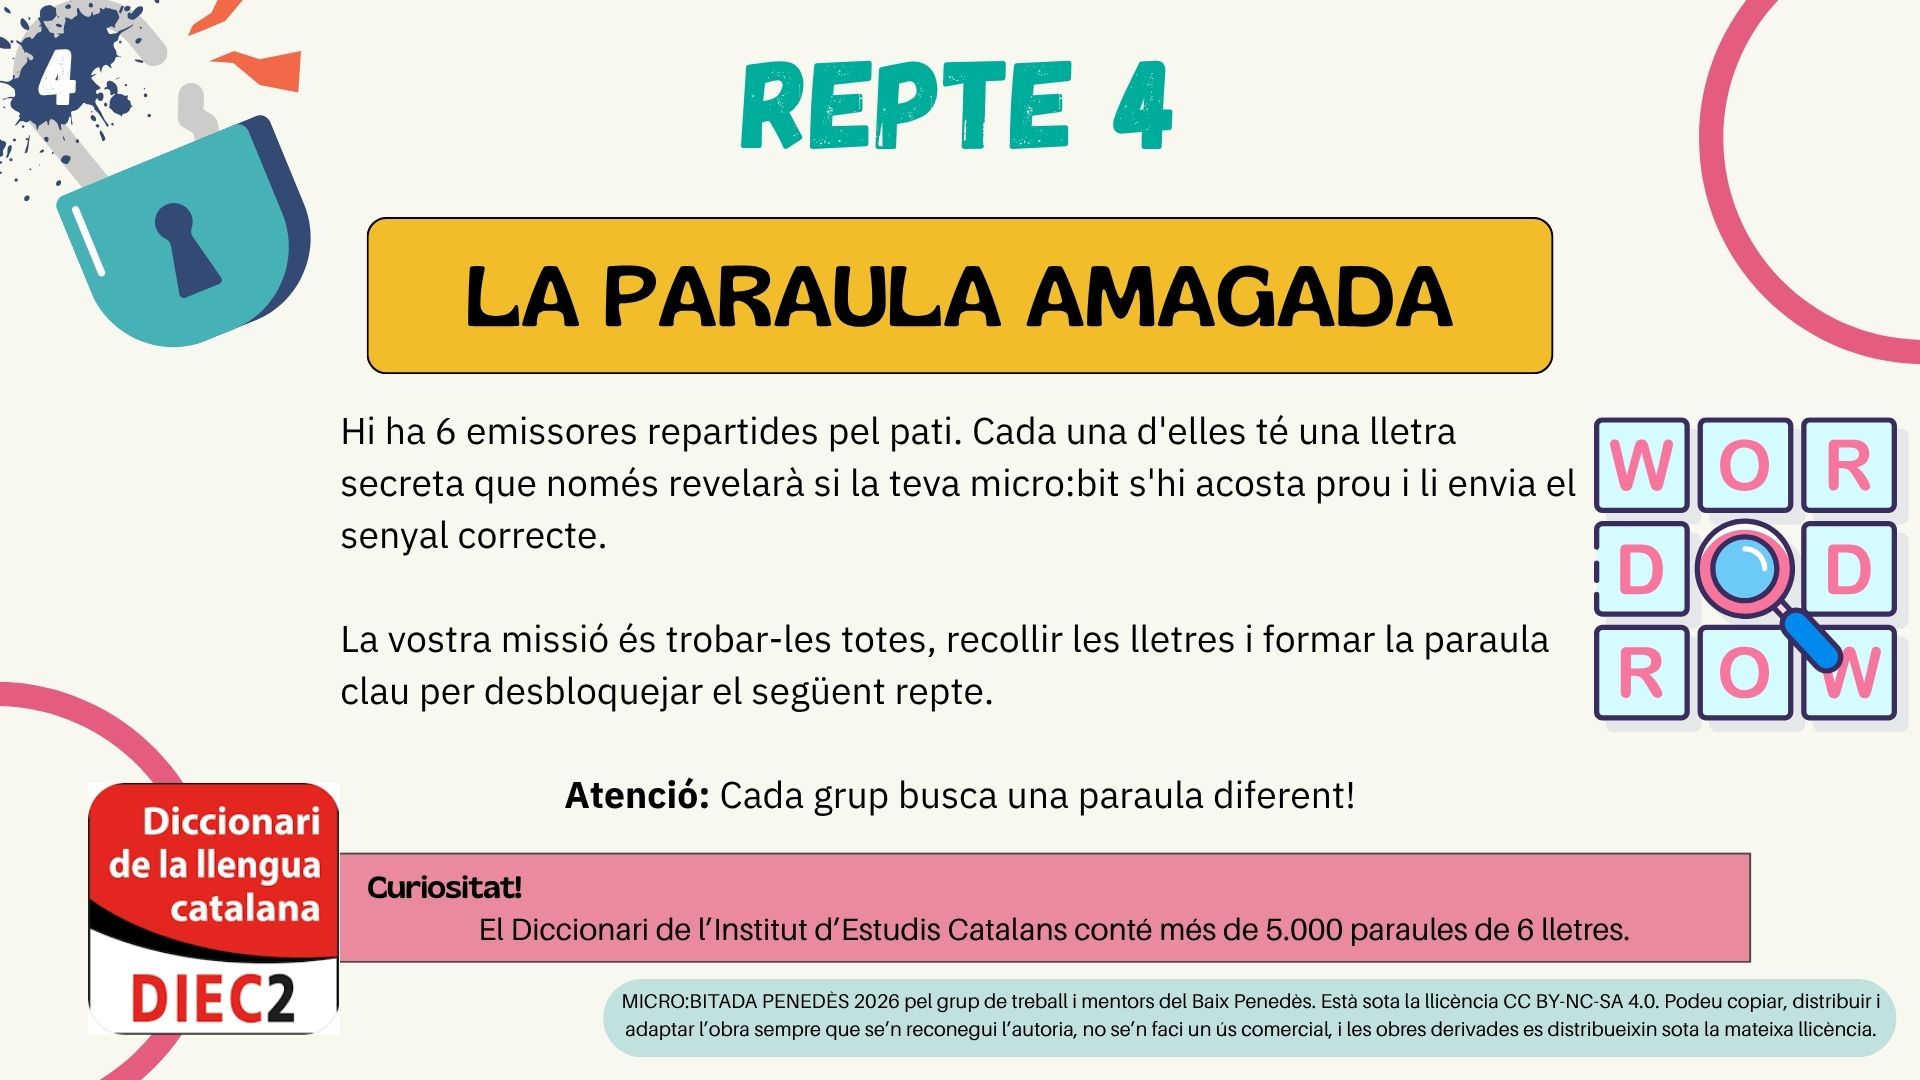
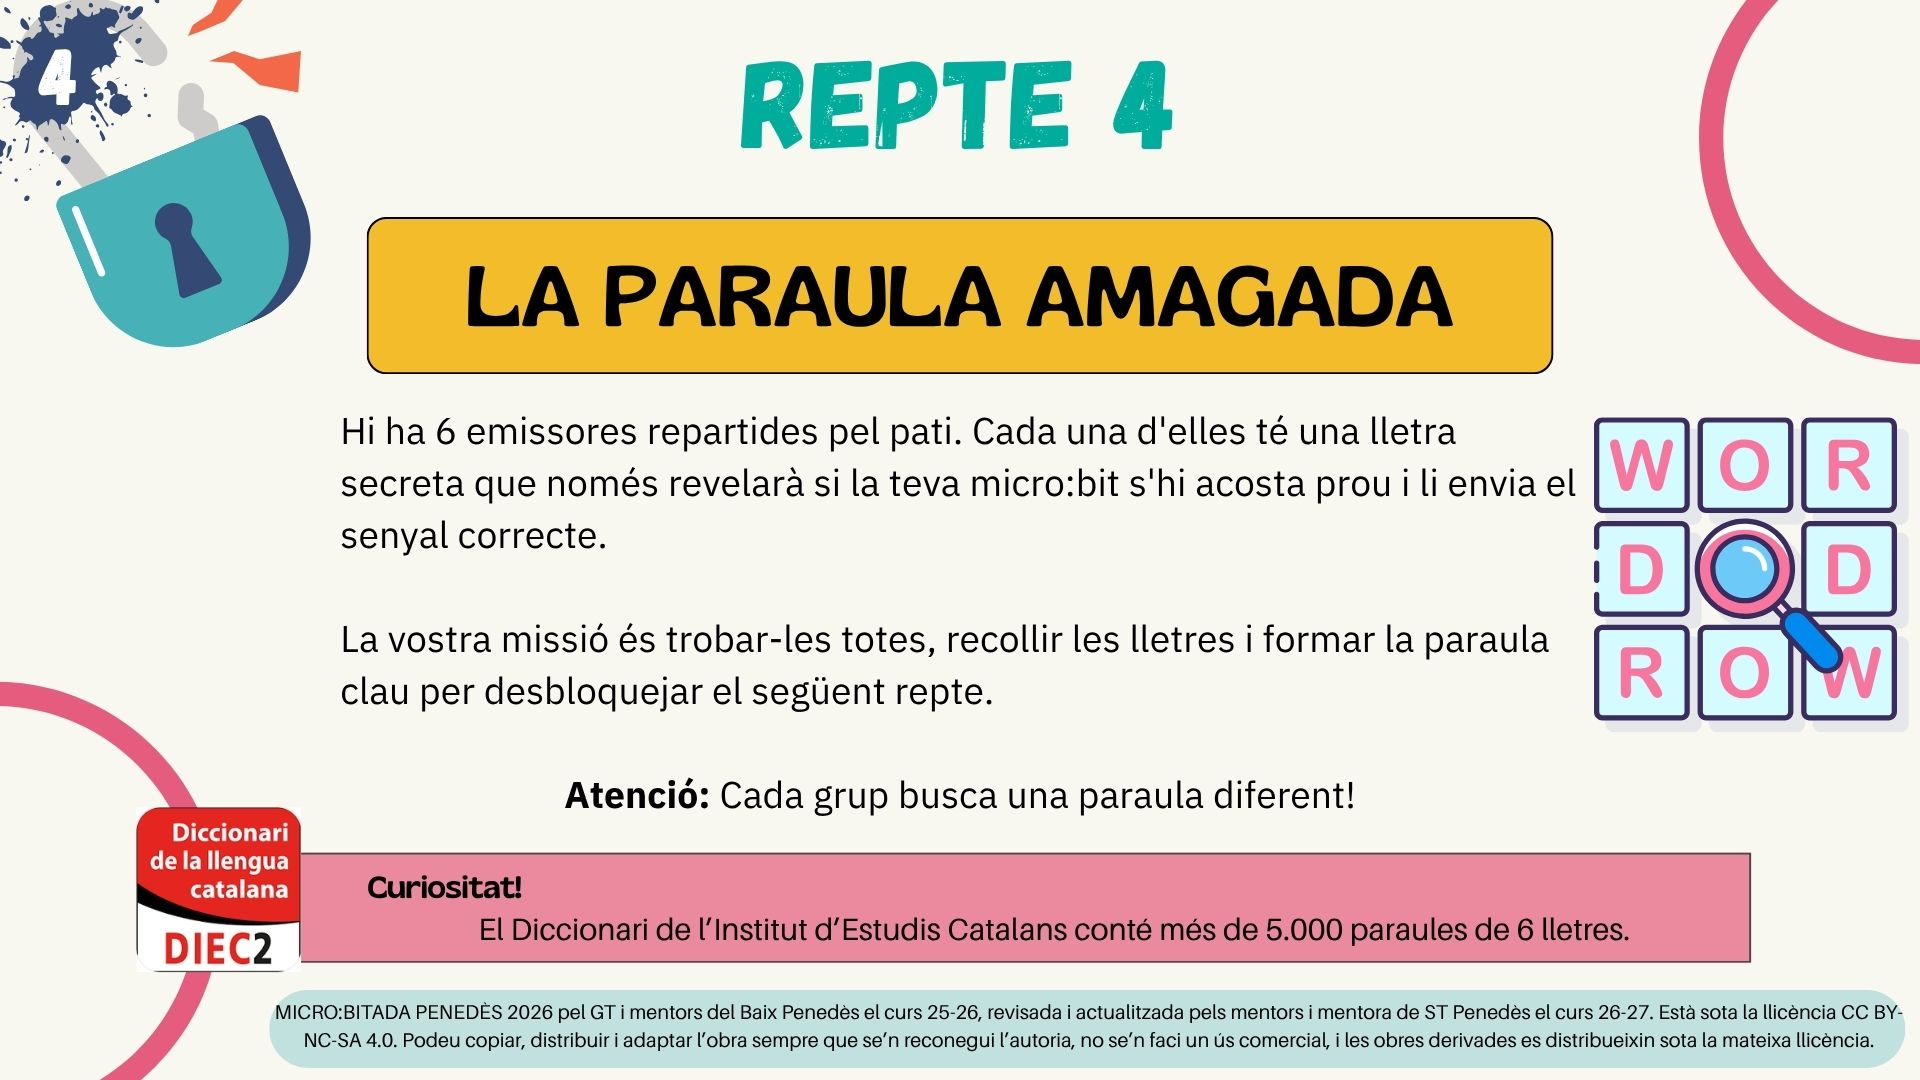
imatges actualitzades i marcador amb estat de finalització de sessió

Changed region(s): [[0.0312, 0.7028, 1.0, 1.0]]

diff --git a/microbitada26/docents.html b/microbitada26/docents.html
@@ -227,7 +227,7 @@
         <h2>2. Guia didàctica</h2>
         <p>Conté l'explicació completa de cada repte i funcionament de l'activitat. Només accessible amb compte de correu xtec.</p>
         <!-- TODO: substituir aquest enllaç quan el PDF estigui penjat a Drive amb accés restringit a xtec -->
-        <a class="btn btn-secondary" href="#" target="_blank" rel="noopener" title="Pendent: cal l'enllaç de Google Drive">📄 Obre la guia didàctica (Drive) — enllaç pendent</a>
+        <a class="btn btn-secondary" href="https://drive.google.com/file/d/1_cyxYjeKNilpb4GiaVGCWedkF-xhHsnf/view?usp=sharing" target="_blank" rel="noopener" title="Pendent: cal l'enllaç de Google Drive">📄 Obre la guia didàctica (Drive) — enllaç pendent</a>
 
         <!-- 3) Pas a pas d'instal·lació -->
         <h2>3. Pas a pas: instal·lar els codis a les micro:bits</h2>
@@ -238,40 +238,39 @@
         <h3 style="color:var(--dark); font-size:1rem;">Descodificadores dels grups</h3>
         <table class="guia">
             <tr><th>Grup</th><th>Enllaç MakeCode</th></tr>
-            <tr><td>1</td><td><a href="https://makecode.microbit.org/_2wV05DhD2Dcj" target="_blank" rel="noopener">Obre el programa</a></td></tr>
-            <tr><td>2</td><td><a href="https://makecode.microbit.org/_f3xMkmR7wfoD" target="_blank" rel="noopener">Obre el programa</a></td></tr>
-            <tr><td>3</td><td><a href="https://makecode.microbit.org/_AJ9AAHf0k9uX" target="_blank" rel="noopener">Obre el programa</a></td></tr>
-            <tr><td>4</td><td><a href="https://makecode.microbit.org/_Vb0PWHAssYaq" target="_blank" rel="noopener">Obre el programa</a></td></tr>
-            <tr><td>5</td><td><a href="https://makecode.microbit.org/_Ey8fjehE9FXx" target="_blank" rel="noopener">Obre el programa</a></td></tr>
+            <tr><td>1</td><td><a href="https://makecode.microbit.org/S34955-69697-52640-24764" target="_blank" rel="noopener">Obre el programa</a></td></tr>
+            <tr><td>2</td><td><a href="https://makecode.microbit.org/S11145-89249-92229-18588" target="_blank" rel="noopener">Obre el programa</a></td></tr>
+            <tr><td>3</td><td><a href="https://makecode.microbit.org/S37526-97037-92004-61199" target="_blank" rel="noopener">Obre el programa</a></td></tr>
+            <tr><td>4</td><td><a href="https://makecode.microbit.org/S18256-58246-79858-90222" target="_blank" rel="noopener">Obre el programa</a></td></tr>
+            <tr><td>5</td><td><a href="https://makecode.microbit.org/S11011-84630-91677-66745" target="_blank" rel="noopener">Obre el programa</a></td></tr>
         </table>
 
         <h3 style="color:var(--dark); font-size:1rem;">Repte 2 — Micro:bit "correctora" (només per al/la docent)</h3>
         <table class="guia">
             <tr><th>Aparell</th><th>Enllaç MakeCode</th></tr>
-            <tr><td>Micro:bit correctora</td><td><a href="https://makecode.microbit.org/S10506-06976-26173-42999" target="_blank" rel="noopener">Obre el programa</a></td></tr>
+            <tr><td>Micro:bit correctora</td><td><a href="https://makecode.microbit.org/_CjgRMY2AP4U8" target="_blank" rel="noopener">Obre el programa</a></td></tr>
         </table>
         <p style="font-size:.9rem;">Imatges de les boques per repte i grup: <a href="https://canva.link/56fx0olk80pvlpf" target="_blank" rel="noopener">obre el Canva</a>.</p>
 
         <h3 style="color:var(--dark); font-size:1rem;">Repte 4 — Micro:bits del pati (6 unitats, una lletra cadascuna, compartides per tots els grups)</h3>
         <table class="guia">
             <tr><th>Micro:bit del pati</th><th>Enllaç MakeCode</th></tr>
-            <tr><td>1</td><td><a href="https://makecode.microbit.org/_JKcF3z81f8u6" target="_blank" rel="noopener">Obre el programa</a></td></tr>
-            <tr><td>2</td><td><a href="https://makecode.microbit.org/_WhRhXyUToLJX" target="_blank" rel="noopener">Obre el programa</a></td></tr>
-            <tr><td>3</td><td><a href="https://makecode.microbit.org/_Jj3Aa6evcRat" target="_blank" rel="noopener">Obre el programa</a></td></tr>
-            <tr><td>4</td><td><a href="https://makecode.microbit.org/_7XR0iteRhcCE" target="_blank" rel="noopener">Obre el programa</a></td></tr>
-            <tr><td>5</td><td><a href="https://makecode.microbit.org/_FoCa75egg0PA" target="_blank" rel="noopener">Obre el programa</a></td></tr>
-            <tr><td>6</td><td><a href="https://makecode.microbit.org/_g6j6k9Dv6APh" target="_blank" rel="noopener">Obre el programa</a></td></tr>
+            <tr><td>1</td><td><a href="https://makecode.microbit.org/S10437-52318-60711-64688" target="_blank" rel="noopener">Obre el programa</a></td></tr>
+            <tr><td>2</td><td><a href="https://makecode.microbit.org/S84029-55324-81788-10616" target="_blank" rel="noopener">Obre el programa</a></td></tr>
+            <tr><td>3</td><td><a href="https://makecode.microbit.org/S74482-95908-90809-54473" target="_blank" rel="noopener">Obre el programa</a></td></tr>
+            <tr><td>4</td><td><a href="https://makecode.microbit.org/S04767-26643-37350-74496" target="_blank" rel="noopener">Obre el programa</a></td></tr>
+            <tr><td>5</td><td><a href="https://makecode.microbit.org/S82827-00757-00489-52580" target="_blank" rel="noopener">Obre el programa</a></td></tr>
+            <tr><td>6</td><td><a href="https://makecode.microbit.org/S03828-34248-79984-26675" target="_blank" rel="noopener">Obre el programa</a></td></tr>
         </table>
-        <div class="nota">Comproveu quina lletra dona cada micro:bit abans de repartir-les pel pati: la guia didàctica indica quina lletra correspon a cada grup i a cada micro:bit.</div>
 
         <h3 style="color:var(--dark); font-size:1rem;">Solucions de referència (el que hauria de programar l'alumnat)</h3>
         <table class="guia">
             <tr><th>Repte</th><th>Enllaç MakeCode</th></tr>
-            <tr><td>Repte 1 — Compte enrere</td><td><a href="https://makecode.microbit.org/S12241-37522-44849-40497" target="_blank" rel="noopener">Obre el programa</a></td></tr>
-            <tr><td>Repte 3 — Hackeja el sistema</td><td><a href="https://makecode.microbit.org/S35842-93533-26110-75143" target="_blank" rel="noopener">Obre el programa</a></td></tr>
-            <tr><td>Repte 4 — Micro:bit receptora</td><td><a href="https://makecode.microbit.org/S32749-64507-50350-76608" target="_blank" rel="noopener">Obre el programa</a></td></tr>
-            <tr><td>Repte 5 — Patró secret (solució)</td><td><a href="https://makecode.microbit.org/S86980-84893-46219-26426" target="_blank" rel="noopener">Obre el programa</a></td></tr>
-            <tr><td>Repte 5 — Codi inicial (es dona a l'alumnat)</td><td><a href="https://makecode.microbit.org/S17832-99665-57486-11507" target="_blank" rel="noopener">Obre el programa</a></td></tr>
+            <tr><td>Repte 1 — Compte enrere</td><td><a href="https://makecode.microbit.org/_JdFLUMCzqHsR" target="_blank" rel="noopener">Obre el programa</a></td></tr>
+            <tr><td>Repte 3 — Hackeja el sistema</td><td><a href="https://makecode.microbit.org/S61967-62078-46612-52803" target="_blank" rel="noopener">Obre el programa</a></td></tr>
+            <tr><td>Repte 4 — Micro:bit receptora</td><td><a href="https://makecode.microbit.org/_0Ms92HPeK4r4" target="_blank" rel="noopener">Obre el programa</a></td></tr>
+            <tr><td>Repte 5 — Patró secret (solució)</td><td><a href="https://makecode.microbit.org/S38136-22810-88747-12129" target="_blank" rel="noopener">Obre el programa</a></td></tr>
+            <tr><td>Repte 5 — Codi inicial (es dona a l'alumnat)</td><td><a href="https://makecode.microbit.org/S80710-04411-49401-93047" target="_blank" rel="noopener">Obre el programa</a></td></tr>
         </table>
 
         <p style="font-size:.9rem;">Model de carcassa 3D per a les micro:bits: <a href="https://makerworld.com/en/models/2266234-micro-bit-modular-case-wearable-with-custom-pins" target="_blank" rel="noopener">makerworld.com</a>.</p>

diff --git a/microbitada26/marcador.html b/microbitada26/marcador.html
@@ -280,9 +280,10 @@
             const actual = g.retoActual || 0;
             const pct = Math.max(0, Math.min(100, Math.round((actual / total) * 100)));
             const acabat = g.estat === 'Acabat';
+            const interromput = g.estat === 'Interromput';
 
             const targeta = document.createElement('div');
-            targeta.className = 'targeta' + (acabat ? ' acabat' : '');
+            targeta.className = 'targeta' + ((acabat || interromput) ? ' acabat' : '');
 
             const header = document.createElement('div');
             header.className = 'targeta-header';
@@ -312,8 +313,10 @@
             const meta = document.createElement('div');
             meta.className = 'meta';
             const spanReptes = document.createElement('span');
-            spanReptes.textContent = acabat ? 'Acabat 🏆' : `Repte ${actual} de ${total}`;
-            if (acabat) spanReptes.className = 'estat-final';
+            spanReptes.textContent = acabat ? 'Acabat 🏆'
+                : interromput ? `Aturat al repte ${actual} de ${total}`
+                : `Repte ${actual} de ${total}`;
+            if (acabat || interromput) spanReptes.className = 'estat-final';
             const spanTemps = document.createElement('span');
             spanTemps.textContent = formatTemps(g.tempsTotal);
             meta.appendChild(spanReptes);

diff --git a/index.html b/index.html
@@ -78,7 +78,7 @@
         <a class="btn btn-alumnes" href="microbitada26/microbitada.html">Micro:bitada — Alumnes</a>
         <a class="btn btn-docents" href="microbitada26/docents.html">Micro:bitada — Docents</a>
         <a class="btn btn-extern" href="resum.html">Resum de totes les sessions</a>
-        <a class="btn btn-extern" href="https://makecode.microbit.org/S17832-99665-57486-11507" target="_blank" rel="noopener">Codi inicial Repte 5 — Alumnat</a>
+        <a class="btn btn-extern" href="https://makecode.microbit.org/S02652-55800-70847-47231" target="_blank" rel="noopener">Codi inicial Repte 5 — Alumnat</a>
     </nav>
 
 <!-- Peu de pàgina: logos de finançament i text de llicència (igual a totes les pàgines) -->
